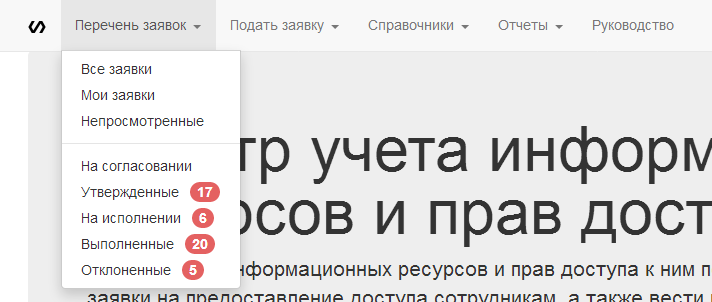
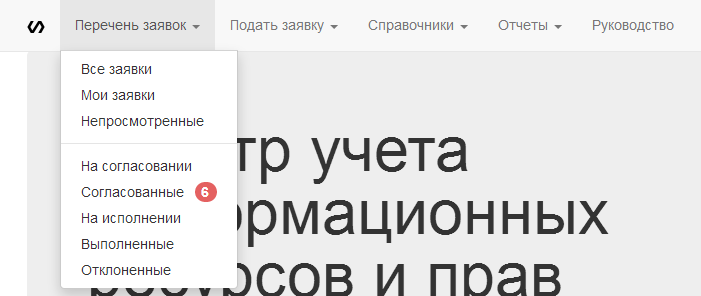
Переработан механизм согласования

diff --git a/RequestsForRightsV2/Content/Site.css b/RequestsForRightsV2/Content/Site.css
@@ -772,3 +772,7 @@ button[name="deleteDeviceAddress"]{
         width: 220px;
     }
 }
+
+.rr-agreement-panel > .btn-group a.rr-accept-cancel-agreement-button {
+    width: 14em;
+}

diff --git a/RequestsForRightsV2/Infrastructure/Services/RequestService.cs b/RequestsForRightsV2/Infrastructure/Services/RequestService.cs
@@ -370,11 +370,6 @@ namespace RequestsForRights.Web.Infrastructure.Services
                     RequestsRepository.AddRequestState(requestState, true);
                     break;
                 case 2:
-                    if (RequestSecurityService.InRole(AclRole.Administrator))
-                    {
-                        RequestsRepository.AddRequestState(requestState, false);
-                        break;
-                    }
                     if (RequestSecurityService.InRole(AclRole.Coordinator) &&
                         !waitAgreementUsers.Any(r =>
                             !r.RequestAgreements.Any(
@@ -383,6 +378,11 @@ namespace RequestsForRights.Web.Infrastructure.Services
                                       ra.IdAgreementType == 2) && r.IdUser == userInfo.IdUser))
                     {
                         agreement.IdAgreementType = 2;
+                    } else
+                    if (RequestSecurityService.InRole(AclRole.Administrator))
+                    {
+                        RequestsRepository.AddRequestState(requestState, false);
+                        break;
                     }
                     RequestsRepository.UpdateRequestAgreement(agreement);
                     if (!NeedAdditionalAgreements(idRequest, agreement))
@@ -394,7 +394,6 @@ namespace RequestsForRights.Web.Infrastructure.Services
                     RequestsRepository.AddRequestState(requestState, false);
                     break;
                 case 5:
-                    RequestsRepository.AddRequestState(requestState, false);
                     if (RequestSecurityService.InRole(AclRole.Coordinator) &&
                         !waitAgreementUsers.Any(r =>
                             !r.RequestAgreements.Any(
@@ -403,8 +402,18 @@ namespace RequestsForRights.Web.Infrastructure.Services
                                       ra.IdAgreementType == 2) && r.IdUser == userInfo.IdUser))
                     {
                         agreement.IdAgreementType = 2;
+                        requestState.IdRequestStateType = 2;
+                        RequestsRepository.UpdateRequestAgreement(agreement);
+                        if (!NeedAdditionalAgreements(idRequest, agreement))
+                        {
+                            RequestsRepository.AddRequestState(requestState, false);
+                        }
                     }
-                    RequestsRepository.UpdateRequestAgreement(agreement);
+                    else
+                    {
+                        RequestsRepository.UpdateRequestAgreement(agreement);
+                        RequestsRepository.AddRequestState(requestState, false);
+                    }
                     break;
                 case 4:
                     RequestsRepository.AddRequestState(new RequestState
@@ -454,6 +463,22 @@ namespace RequestsForRights.Web.Infrastructure.Services
             };
             RequestsRepository.AddRequestState(requestState, false);
             RequestsRepository.AddAdditionalAgreement(agreement);
+        }
+
+        public void AcceptCancelRequest(int idRequest)
+        {
+            var userInfo = RequestSecurityService.GetUserInfo();
+            if (userInfo == null)
+            {
+                throw new DbUpdateException("Неизвестный пользователь");
+            }
+            var requestState = new RequestState
+            {
+                IdRequest = idRequest,
+                IdRequestStateType = 5,
+                Date = DateTime.Now
+            };
+            RequestsRepository.AddRequestState(requestState, false);
         }
 
         private bool NeedAdditionalAgreements(int idRequest, RequestAgreement newAgreement)

diff --git a/RequestsForRightsV2/Infrastructure/Utilities/EmailNotify/EmailBuilder.cs b/RequestsForRightsV2/Infrastructure/Utilities/EmailNotify/EmailBuilder.cs
@@ -347,7 +347,7 @@ namespace RequestsForRights.Web.Infrastructure.Utilities.EmailNotify
                     request.IdRequest, request.RequestType.Name.ToLower());
             var body = string.Format("Здравствуйте, {0}!<br>{1} на <b>«{2}»</b>.",
                 requester.Snp, subject, RequestHelper.VerbRequestState(requestStateType.Name).ToLower());
-            if (!string.IsNullOrEmpty(agreementReason))
+            if (!string.IsNullOrEmpty(agreementReason) && requestStateType.IdRequestStateType == 5)
             {
                 body += "<br><br><b>Причина: </b>" + agreementReason;
             }
@@ -374,11 +374,21 @@ namespace RequestsForRights.Web.Infrastructure.Utilities.EmailNotify
                 RequestHelper.VerbRequestState(requestStateType.Name).ToLower());
             if (requestStateType.IdRequestStateType == 2)
             {
-                subject = string.Format("Поступила заявка №{0} {1}",
-                    request.IdRequest, request.RequestType.Name.ToLower());
+                if (request.RequestAgreements.Any(r => r.IdAgreementType == 2) &&
+                    request.RequestAgreements.Where(r => r.IdAgreementType == 2).
+                    All(r => r.IdAgreementState != 1))
+                {
+                    subject = string.Format("По заявке №{0} {1} завершено дополнительное согласование",
+                        request.IdRequest, request.RequestType.Name.ToLower());
+                }
+                else
+                {
+                    subject = string.Format("Поступила заявка №{0} {1}",
+                        request.IdRequest, request.RequestType.Name.ToLower());
+                }
                 body = string.Format("Здравствуйте, {0}!<br>{1}.", user.Snp, subject);
             }
-            if (!string.IsNullOrEmpty(agreementReason))
+            if (!string.IsNullOrEmpty(agreementReason) && requestStateType.IdRequestStateType == 5)
             {
                 body += "<br><br><b>Причина: </b>" + agreementReason;
             }
@@ -409,7 +419,8 @@ namespace RequestsForRights.Web.Infrastructure.Utilities.EmailNotify
             var lastRequestState = request.RequestStates.OrderByDescending(r => r.IdRequestState).
                 FirstOrDefault();
             if (lastRequestState == null ||
-                lastRequestState.IdRequestStateType != idRequestStateType)
+                (lastRequestState.IdRequestStateType != idRequestStateType && 
+                !(lastRequestState.IdRequestStateType == 2 && idRequestStateType == 5)))
             {
                 return messages;
             }

diff --git a/RequestsForRightsV2/Controllers/RequestController.cs b/RequestsForRightsV2/Controllers/RequestController.cs
@@ -1,5 +1,6 @@
 using System;
 using System.Data.Entity.Infrastructure;
+using System.Linq;
 using System.Web.Mvc;
 using RequestsForRights.Domain.Entities;
 using RequestsForRights.Web.Infrastructure.Helpers;
@@ -276,6 +277,33 @@ namespace RequestsForRights.Web.Controllers
                 var emails = _emailBuilder.SetRequestStateEmails(
                     _requestService.GetRequestById(idRequest, true),
                     idRequestStateType, agreementReason);
+                _emailSender.Send(emails);
+            }
+            catch (DbUpdateException e)
+            {
+                return RedirectToAction("ConflictError", "Home",
+                    new { message = ExceptionHelper.RollToInnerException(e).Message });
+            }
+            ViewData["SecurityService"] = _securityService;
+            return PartialView("Request/AgreementsContent", _requestService.GetRequestViewModelBy(request));
+        }
+
+        public ActionResult AcceptCancelRequest(int idRequest)
+        {
+            var request = _requestService.GetRequestById(idRequest);
+            if (!_securityService.CanAcceptCancelRequest(request))
+            {
+                return RedirectToAction("ForbiddenError", "Home");
+            }
+            try
+            {
+                _requestService.AcceptCancelRequest(idRequest);
+                _requestService.SaveChanges();
+                var agreementReason = request.RequestAgreements.Where(r => r.IdAgreementState == 3).Select(r => r.Description)
+                    .Aggregate((v, acc) => v + "<br>" + acc);
+                var emails = _emailBuilder.SetRequestStateEmails(
+                    _requestService.GetRequestById(idRequest, true),
+                    5, agreementReason);
                 _emailSender.Send(emails);
             }
             catch (DbUpdateException e)

diff --git a/RequestsForRightsV2/Infrastructure/Security/RequestSecurityService.cs b/RequestsForRightsV2/Infrastructure/Security/RequestSecurityService.cs
@@ -254,6 +254,21 @@ namespace RequestsForRights.Web.Infrastructure.Security
                 new[] { 1, 2 }.Contains(idRequestStateType);
         }
 
+        public bool CanAcceptCancelRequest(RequestModel<T> entity)
+        {
+            var request = _requestRepository.GetRequestById(entity.IdRequest);
+            return CanAcceptCancelRequest(request);
+        }
+
+        public bool CanAcceptCancelRequest(Request request)
+        {
+            var idRequestStateType = request.RequestStates.OrderBy(rs => rs.IdRequestState).
+                Last(r => !r.Deleted).IdRequestStateType;
+            return InRole(new[] { AclRole.Dispatcher, AclRole.Administrator }) &&
+                 new[] { 1, 2 }.Contains(idRequestStateType) && 
+                 request.RequestAgreements.Any(r => r.IdAgreementType == 2 && r.IdAgreementState == 3);
+        }
+
         public bool CanSetRequestState(Request request, int idRequestStateType)
         {
             if (request == null)
@@ -323,8 +338,10 @@ namespace RequestsForRights.Web.Infrastructure.Security
 
         private bool DispatcherCanSetRequestState(Request request)
         {
-            return request.RequestStates.OrderBy(rs => rs.IdRequestState).
-                Last(r => !r.Deleted).IdRequestStateType == 2;
+            return
+                request.RequestStates.Any(r => !r.Deleted && r.IdRequestStateType == 2) &&
+                new[] {1, 2}.Contains(request.RequestStates.OrderBy(rs => rs.IdRequestState).
+                    Last(r => !r.Deleted).IdRequestStateType);
         }
 
         private bool ResourceOperatorCanSetRequestState(Request request)

diff --git a/RequestsForRights.UnitTests/Web/Infrastructure/Security/RequestSecurityServiceUnitTest.cs b/RequestsForRights.UnitTests/Web/Infrastructure/Security/RequestSecurityServiceUnitTest.cs
@@ -2001,6 +2001,9 @@ namespace RequestsForRights.UnitTests.Web.Infrastructure.Security
                     ? u.AclDepartments.AsQueryable()
                     : new List<Department> { u.Department }.AsQueryable());
             }
+            securityRepositoryMock.Setup(r => r.GetUsersBy(2)).Returns(() => 
+                dbContext.AclUsers.Where(r =>
+                r.Roles.Any(role => role.IdRole == 2)).AsQueryable());
             securityRepositoryMock.Setup(r => r.GetUserRoles(null)).Returns(() => user.Roles.AsQueryable());
             var requestRepositoryMock = new Mock<IRequestRepository>();
             foreach (var request in dbContext.Requests)

diff --git a/RequestsForRightsV2/Infrastructure/Security/Interfaces/IRequestSecurityService.cs b/RequestsForRightsV2/Infrastructure/Security/Interfaces/IRequestSecurityService.cs
@@ -20,6 +20,8 @@ namespace RequestsForRights.Web.Infrastructure.Security.Interfaces
         bool CanAddCoordinator();
         bool CanAddCoordinator(RequestModel<T> request);
         bool CanAddCoordinator(Request request);
+        bool CanAcceptCancelRequest(Request request);
+        bool CanAcceptCancelRequest(RequestModel<T> request);
         bool CanSetRequestState(RequestModel<T> request, int idRequestStateType);
         bool CanSetRequestState(Request request, int idRequestStateType);
         bool CanSetRequestStateGlobal(Request request, int idRequestStateType);

diff --git a/RequestsForRightsV2/Infrastructure/Services/UserService.cs b/RequestsForRightsV2/Infrastructure/Services/UserService.cs
@@ -105,7 +105,7 @@ namespace RequestsForRights.Web.Infrastructure.Services
                     on request.IdRequest equals userAssoc.IdRequest
                 select userAssoc.RequestUser;
 
-            users = users.Except(excludeUsers);
+            users = users.ToList().Except(excludeUsers).AsQueryable();
 
             return _securityRepository.FilterUsers(users).Take(maxCount);
         }

diff --git a/RequestsForRightsV2/Infrastructure/Services/Interfaces/IRequestService.cs b/RequestsForRightsV2/Infrastructure/Services/Interfaces/IRequestService.cs
@@ -36,5 +36,6 @@ namespace RequestsForRights.Web.Infrastructure.Services.Interfaces
         RequestExtComment AddComment(int idRequest, string comment);
         void SetRequestState(int idRequest, int idRequestStateType, string reason);
         void AddCooordinator(int idRequest, Coordinator coordinator);
+        void AcceptCancelRequest(int idRequest);
     }
 }
